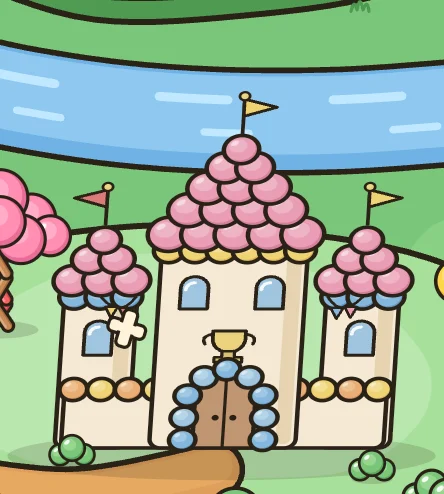
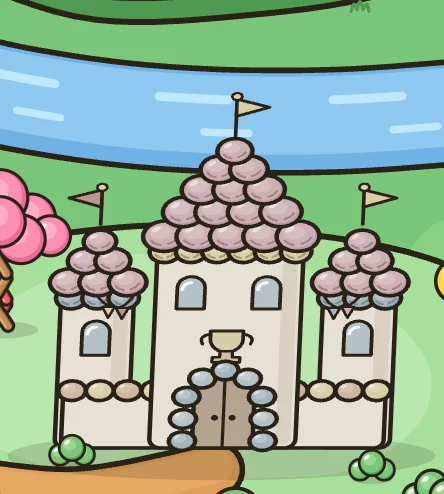
v11 地圖：快取版本 26、廢墟改成洩氣灰氣球、地圖上不再跳提示
- 快取版本號全站 ?v=25 改成 ?v=26（含 js/map.js 裡還停在 ?v=10 的 world.js 引用）
- 廢墟重畫：拿掉十字貼片與灰塵雲，沒氣時整棟全灰、塌扁、氣球有皺摺、旁邊有漏氣小白線；修好後充氣回彩色。重出 13 張修復前的圖，修好後的整張地圖沒變
- 還被雲蓋住的地區，從雲邊露出來的建築也用洩氣的灰色
- 地圖畫面不再跳文字：底部提示條、滑過／長按的說明泡泡、「修好了！」大字、滑鼠停留的原生提示都拿掉（從地圖開小舖時，小舖裡的提示照常）
- 沒有加回連擊

Changed region(s): [[0.0878, 0.1822, 0.9369, 0.9109]]

diff --git a/js/app.js b/js/app.js
@@ -1,23 +1,23 @@
-import { Auth } from "./auth.js?v=25";
-import { loadSave, writeSave, syncCloud, tickEnergy, nextEnergyIn, todayKey, ensureDaily, formatDailyResetLeft, ENERGY } from "./save.js?v=25";
-import { unlockAudio, playMusic, stopMusic, pauseMusic, resumeMusic, sfx, setAudioSettings, getAudioSettings } from "./audio.js?v=25";
-import { mountMascot } from "./mascot.js?v=25";
-import { mountHome } from "./home.js?v=25";
-import { bindStory, startStory } from "./story.js?v=25";
-import { createSettingsUi, migrateSettings } from "./settings-ui.js?v=25";
-import { bagCap, migrateBagSlots } from "./bag.js?v=25";
-import { reserveItems } from "./merge.js?v=25";
-import { avatarSrc } from "./portraits.js?v=25";
+import { Auth } from "./auth.js?v=26";
+import { loadSave, writeSave, syncCloud, tickEnergy, nextEnergyIn, todayKey, ensureDaily, formatDailyResetLeft, ENERGY } from "./save.js?v=26";
+import { unlockAudio, playMusic, stopMusic, pauseMusic, resumeMusic, sfx, setAudioSettings, getAudioSettings } from "./audio.js?v=26";
+import { mountMascot } from "./mascot.js?v=26";
+import { mountHome } from "./home.js?v=26";
+import { bindStory, startStory } from "./story.js?v=26";
+import { createSettingsUi, migrateSettings } from "./settings-ui.js?v=26";
+import { bagCap, migrateBagSlots } from "./bag.js?v=26";
+import { reserveItems } from "./merge.js?v=26";
+import { avatarSrc } from "./portraits.js?v=26";
 import {
   starterBoard, canMerge, mergeCells, produceFrom, firstEmpty, keyOf,
   itemDef, genDef, maxTier, chainPreview, makeProceduralOrder, NPCS_BY_CHAPTER, xpLevel, makeUid, idx,
   remapBoard, nearbyEmpty, fillOrderSlots
-} from "./merge.js?v=25";
-import { attachSystems, GEN_POPS, GEN_COOL_MS } from "./systems.js?v=25";
-import { regionById } from "./world.js?v=25";
-import { BOARD_COLS, BOARD_ROWS, fitBoardCell, migrateToFixedBoard } from "./board-layout.js?v=25";
-import { createWorldMap } from "./world-map.js?v=25";
-import { bindTip, bindChromeTips, hideTip } from "./tip.js?v=25";
+} from "./merge.js?v=26";
+import { attachSystems, GEN_POPS, GEN_COOL_MS } from "./systems.js?v=26";
+import { regionById } from "./world.js?v=26";
+import { BOARD_COLS, BOARD_ROWS, fitBoardCell, migrateToFixedBoard } from "./board-layout.js?v=26";
+import { createWorldMap } from "./world-map.js?v=26";
+import { bindTip, bindChromeTips, hideTip } from "./tip.js?v=26";
 
 const $ = (s, r = document) => r.querySelector(s);
 const $$ = (s, r = document) => [...r.querySelectorAll(s)];
@@ -51,7 +51,7 @@ const CHAPTER_NEXT = {
 };
 
 async function fetchJSON(url) {
-  const res = await fetch(url + "?v=25");
+  const res = await fetch(url + "?v=26");
   if (!res.ok) throw new Error("讀不到 " + url);
   return res.json();
 }
@@ -127,7 +127,7 @@ function show(name) {
   } else if (name === "book") renderBook();
   else if (name === "redeem") $("#redeem-count").textContent = SAVE.starSeeds;
   else if (name === "lyrics") renderLyrics();
-    else if (name === "map") renderMap();
+    else if (name === "map") { $("#toast")?.classList.remove("on"); hideTip(); renderMap(); }
   else if (name === "daily") renderDaily();
   refreshHud();
 }
@@ -334,6 +334,7 @@ function placeToast() {
 
 function toast(msg) {
   const t = $("#toast");
+  if ($("#map")?.classList.contains("on") && !document.querySelector(".overlay.on")) return;   // the map stays clean: no pop-up text there
   t.textContent = msg;
   placeToast();
   t.classList.add("on");

diff --git a/js/world-map.js b/js/world-map.js
@@ -1,7 +1,7 @@
 /** Balloon Kingdom world map: drag, pinch-zoom with inertia, cloud-covered regions, repair states.
  *  Art is drawn by assets/map/src (vector, sticker style) and baked to webp.
  *  Looks and motion only. Costs, unlock rules and saving stay in map.js / world.js. */
-import { isRegionUnlocked, regionVisible, regionUnlockBlocked } from "./world.js?v=25";
+import { isRegionUnlocked, regionVisible, regionUnlockBlocked } from "./world.js?v=26";
 
 const ART = "assets/map/";
 const ICON = {
@@ -96,7 +96,6 @@ export function createWorldMap(ctx, mapApi) {
     if (shopBtn) {
       shopBtn.classList.add("wm-hud-btn");
       shopBtn.setAttribute("aria-label", shopBtn.textContent.trim() || "小舖");
-      shopBtn.title = shopBtn.getAttribute("aria-label");
       shopBtn.innerHTML = `<img src="${ICON.shop}" alt="">`;
     }
     const backBtn = host.querySelector(".hud [data-back]");
@@ -265,6 +264,8 @@ export function createWorldMap(ctx, mapApi) {
         const set = cloudSet(region, p);
         if (near) { set.classList.add("near"); layers.pins.appendChild(lockPin(region, p)); }
         layers.clouds.appendChild(set);
+        // what peeks out from under the cloud is still flat and grey
+        (region.buildings || []).forEach((b, i) => { const { rect, drawn } = buildingRect(region, b, i); if (drawn && lvOf(b.id) < maxOf(b)) layers.ruins.appendChild(ruin(b, rect, lvOf(b.id), maxOf(b))); });
         continue;
       }
       layers.pins.appendChild(regionPin(region, p));
@@ -383,10 +384,10 @@ export function createWorldMap(ctx, mapApi) {
         const bt = layout?.regions?.[region.id]?.buildings?.[b.id] && !region.map?.pin ? `${ART}thumb-${b.id}.webp` : thumb;
         const action = done
           ? `<span class="wm-done" aria-label="修好了"></span>`
-          : `<button type="button" class="wm-btn green small" data-repair="${b.id}" ${ok && canPay(cost) ? "" : "disabled"} title="${b.desc || b.name}">
+          : `<button type="button" class="wm-btn green small" data-repair="${b.id}" ${ok && canPay(cost) ? "" : "disabled"} aria-label="${b.name}">
                <img class="ico" src="${ICON.hammer}" alt="">${ok ? costChips(cost) || "修復" : `<img class="ico" src="${ICON.lock}" alt="">`}
              </button>`;
-        return `<li class="wm-bldg${done ? " done" : ""}${focusBuilding === b.id ? " focus" : ""}" data-b="${b.id}" title="${b.desc || ""}">
+        return `<li class="wm-bldg${done ? " done" : ""}${focusBuilding === b.id ? " focus" : ""}" data-b="${b.id}">
             <span class="wm-bthumb${done ? "" : " faded"}"><img src="${bt}" alt=""></span>
             <span class="wm-binfo"><b>${b.name}</b><span class="wm-pips">${pips}</span></span>
             ${action}
@@ -492,7 +493,7 @@ export function createWorldMap(ctx, mapApi) {
   /* ---------- entry ---------- */
   async function render() {
     if (!layout) {
-      try { layout = await (await fetch(ART + "layout.json?v=25")).json(); } catch { layout = { regions: {}, spare: [] }; }
+      try { layout = await (await fetch(ART + "layout.json?v=26")).json(); } catch { layout = { regions: {}, spare: [] }; }
       if (layout.size) [W, H] = layout.size;
       if (layout.cloud) CLOUD_RATIO = layout.cloud[1] / layout.cloud[0];
     }

diff --git a/css/app.css b/css/app.css
@@ -424,17 +424,6 @@ a{color:var(--ink)}
 .play-hud{margin:0 0 4px}
 .daily-bar{min-height:32px;padding:3px 10px}
 .orders{gap:4px;padding:0 2px 4px}
-.restore-fx{position:fixed;inset:0;z-index:90;display:grid;place-items:center;pointer-events:none;background:rgba(251,252,246,.28)}
-.restore-fx b{font-size:28px;color:var(--ink);text-shadow:0 2px 0 #fff;animation:pop .4s var(--ease)}
-.restore-fx span{display:block;text-align:center;font-weight:700;color:var(--ink)}
-.restore-fx .restore-burst{position:absolute;inset:0;pointer-events:none}
-.restore-fx .restore-burst span{position:absolute;width:10px;height:10px;border-radius:50%;background:var(--yellow);left:50%;top:50%;animation:burst 1s ease-out both}
-.restore-fx .restore-burst span:nth-child(1){--dx:-80px;--dy:-60px}
-.restore-fx .restore-burst span:nth-child(2){--dx:90px;--dy:-40px;background:var(--pink)}
-.restore-fx .restore-burst span:nth-child(3){--dx:-40px;--dy:80px;background:var(--green)}
-.restore-fx .restore-burst span:nth-child(4){--dx:70px;--dy:70px}
-.restore-fx .restore-burst span:nth-child(5){--dx:0;--dy:-100px;background:#fff}
-.restore-fx .restore-burst span:nth-child(6){--dx:-90px;--dy:20px;background:var(--pink)}
 @keyframes burst{0%{transform:translate(-50%,-50%) scale(.2);opacity:1}100%{transform:translate(calc(-50% + var(--dx)), calc(-50% + var(--dy))) scale(1);opacity:0}}
 .map-soon{text-align:center;color:var(--muted);font-size:13px;padding:8px 12px 20px}
 

diff --git a/index.html b/index.html
@@ -13,14 +13,14 @@
   <link rel="icon" type="image/png" href="assets/ui/favicon.png">
   <link rel="apple-touch-icon" href="assets/ui/icon-192.png">
   <link rel="manifest" href="manifest.json">
-  <link rel="stylesheet" href="css/app.css?v=25">
-  <link rel="stylesheet" href="css/home.css?v=25">
-  <link rel="stylesheet" href="css/story.css?v=25">
-  <link rel="stylesheet" href="css/bag.css?v=25">
-  <link rel="stylesheet" href="css/orders.css?v=25">
-  <link rel="stylesheet" href="css/settings.css?v=25">
-  <link rel="stylesheet" href="css/quality.css?v=25">
-  <link rel="stylesheet" href="css/world-map.css?v=25">
+  <link rel="stylesheet" href="css/app.css?v=26">
+  <link rel="stylesheet" href="css/home.css?v=26">
+  <link rel="stylesheet" href="css/story.css?v=26">
+  <link rel="stylesheet" href="css/bag.css?v=26">
+  <link rel="stylesheet" href="css/orders.css?v=26">
+  <link rel="stylesheet" href="css/settings.css?v=26">
+  <link rel="stylesheet" href="css/quality.css?v=26">
+  <link rel="stylesheet" href="css/world-map.css?v=26">
 </head>
 <body>
   <div id="app">
@@ -379,6 +379,6 @@
     }
   }
   </script>
-  <script type="module" src="js/app.js?v=25"></script>
+  <script type="module" src="js/app.js?v=26"></script>
 </body>
 </html>

diff --git a/js/fx.js b/js/fx.js
@@ -148,16 +148,6 @@ export function createFx(ctx) {
     }
   }
 
-  function celebrateRestore(name, anchor) {
-    const layer = document.createElement("div");
-    layer.className = "restore-fx";
-    layer.innerHTML = `<div class="restore-burst" aria-hidden="true"><span></span><span></span><span></span><span></span><span></span><span></span></div>
-      <b>修好了！</b><span>${name}</span>`;
-    document.body.appendChild(layer);
-    coinPop(anchor || $("#map") || document.body, "修好了");
-    setTimeout(() => layer.remove(), 1800);
-  }
-
   function flyCoins(fromEl, toEl, done) {
     const a = (fromEl instanceof Element ? fromEl.getBoundingClientRect() : null)
       || { left: innerWidth * 0.5, top: innerHeight * 0.45, width: 0, height: 0 };
@@ -362,6 +352,6 @@ export function createFx(ctx) {
     }
   }
 
-  return { flyTo, flyCoins: flyCoinsWrap, flyRewards, flyKind, popAt, revealMerge, spawnArc, bounceCell, coinPop, showDiscover, showInfo, celebrateRestore, pulseHud, completeTask };
+  return { flyTo, flyCoins: flyCoinsWrap, flyRewards, flyKind, popAt, revealMerge, spawnArc, bounceCell, coinPop, showDiscover, showInfo, pulseHud, completeTask };
 
 }

diff --git a/js/systems.js b/js/systems.js
@@ -1,15 +1,15 @@
 /** Wires map, shop, fog, orders UI and fx so app.js only needs a thin hook. */
-import { createFog, GEN_POPS, GEN_COOL_MS } from "./fog.js?v=25";
-import { createFx } from "./fx.js?v=25";
-import { createShop } from "./shop.js?v=25";
-import { createBag } from "./bag.js?v=25";
-import { createOrdersUi } from "./orders-ui.js?v=25";
-import { createMap } from "./map.js?v=25";
-import { createAds } from "./ads.js?v=25";
-import { nearbyEmpty } from "./merge.js?v=25";
+import { createFog, GEN_POPS, GEN_COOL_MS } from "./fog.js?v=26";
+import { createFx } from "./fx.js?v=26";
+import { createShop } from "./shop.js?v=26";
+import { createBag } from "./bag.js?v=26";
+import { createOrdersUi } from "./orders-ui.js?v=26";
+import { createMap } from "./map.js?v=26";
+import { createAds } from "./ads.js?v=26";
+import { nearbyEmpty } from "./merge.js?v=26";
 import { createEvents } from "./events.js";
-import { createEventsUi } from "./events-ui.js?v=25";
-import { createBoardDrag } from "./drag.js?v=25";
+import { createEventsUi } from "./events-ui.js?v=26";
+import { createBoardDrag } from "./drag.js?v=26";
 
 export { GEN_POPS, GEN_COOL_MS };
 

diff --git a/js/shop.js b/js/shop.js
@@ -1,8 +1,8 @@
 /** In-game shop and magic-bag popup. Coins and 星星種子 only — no IAP, ads, or premium currency. */
-import { shopItemAvailable, canAfford, payCost, formatCost, formatCostHtml } from "./world.js?v=25";
-import { bagCap } from "./bag.js?v=25";
-import { ensureDaily, formatDailyResetLeft } from "./save.js?v=25";
-import { bindTip, hideTip } from "./tip.js?v=25";
+import { shopItemAvailable, canAfford, payCost, formatCost, formatCostHtml } from "./world.js?v=26";
+import { bagCap } from "./bag.js?v=26";
+import { ensureDaily, formatDailyResetLeft } from "./save.js?v=26";
+import { bindTip, hideTip } from "./tip.js?v=26";
 
 const DIAMOND_ITEMS = [
   { id: "boost-energy", name: "能量加持", desc: "立刻回復 30 點能量。", energy: 30, cost: { diamonds: 5 } },

diff --git a/js/map.js b/js/map.js
@@ -2,7 +2,7 @@
 import {
   regionById, isRegionUnlocked, regionVisible, regionUnlockBlocked,
   allBuildings, buildingDef, formatCost, payCost, canAfford
-} from "./world.js?v=10";
+} from "./world.js?v=26";
 
 export function createMap(ctx) {
   const { $, toast, sfx, persist, refresh, refreshHud, show, startStory, applyChapterLook, playMusic } = ctx;
@@ -163,7 +163,6 @@ export function createMap(ctx) {
     persist();
     refreshHud();
     renderMap();
-    ctx.fx?.celebrateRestore?.(b.name);
     ctx.playMusic?.(region?.music || region?.chapter || ch);
     ctx.mascot?.cheer?.();
   }

diff --git a/js/fog.js b/js/fog.js
@@ -1,6 +1,6 @@
 /** Irregular island unlock: crates/fog with coin badges, opening in clumps. */
-import { clumpOf, isCellOpen, clumpCells, lockedClumpIds, CLUMP_COSTS, isAllOpen, isContour, unlockOneCell } from "./world.js?v=25";
-import { nearbyEmpty, produceFrom } from "./merge.js?v=25";
+import { clumpOf, isCellOpen, clumpCells, lockedClumpIds, CLUMP_COSTS, isAllOpen, isContour, unlockOneCell } from "./world.js?v=26";
+import { nearbyEmpty, produceFrom } from "./merge.js?v=26";
 
 export const GEN_POPS = 18;
 export const GEN_COOL_MS = 6_000;

diff --git a/js/story.js b/js/story.js
@@ -1,6 +1,6 @@
 /** Story scenes: big portraits, matching expressions, typewriter + mouth, filled stage. */
 
-import { avatarSrc, portraitSrc, bindImgFallback, normId, applyCastMetrics, metricsFor } from "./portraits.js?v=25";
+import { avatarSrc, portraitSrc, bindImgFallback, normId, applyCastMetrics, metricsFor } from "./portraits.js?v=26";
 
 let queue = [], idx = 0, doneFn = null;
 let typing = false, typed = "", full = "", typeTimer = 0, mouthTimer = 0, talking = false;

diff --git a/js/mascot.js b/js/mascot.js
@@ -24,7 +24,7 @@ const POSES = {
 };
 
 /** Load data/mascot-poses.json so later official sticker frames can drop in without a code change. */
-fetch("data/mascot-poses.json?v=25").then((r) => r.json()).then((man) => {
+fetch("data/mascot-poses.json?v=26").then((r) => r.json()).then((man) => {
   const setName = man.defaultSet || "sticker";
   const set = (man.sets && man.sets[setName]) || {};
   for (const [k, v] of Object.entries(set)) {

diff --git a/js/home.js b/js/home.js
@@ -1,6 +1,6 @@
 /** Title / home screen: icon dock, daily clock state, floating balloons. */
 
-import { todayKey, formatDailyResetLeft, ensureDaily } from "./save.js?v=25";
+import { todayKey, formatDailyResetLeft, ensureDaily } from "./save.js?v=26";
 
 const ICONS = [
   { id: "btn-map", icon: "assets/icons/map.png", label: "故事地圖", tip: "打開世界地圖，修復小建築" },
